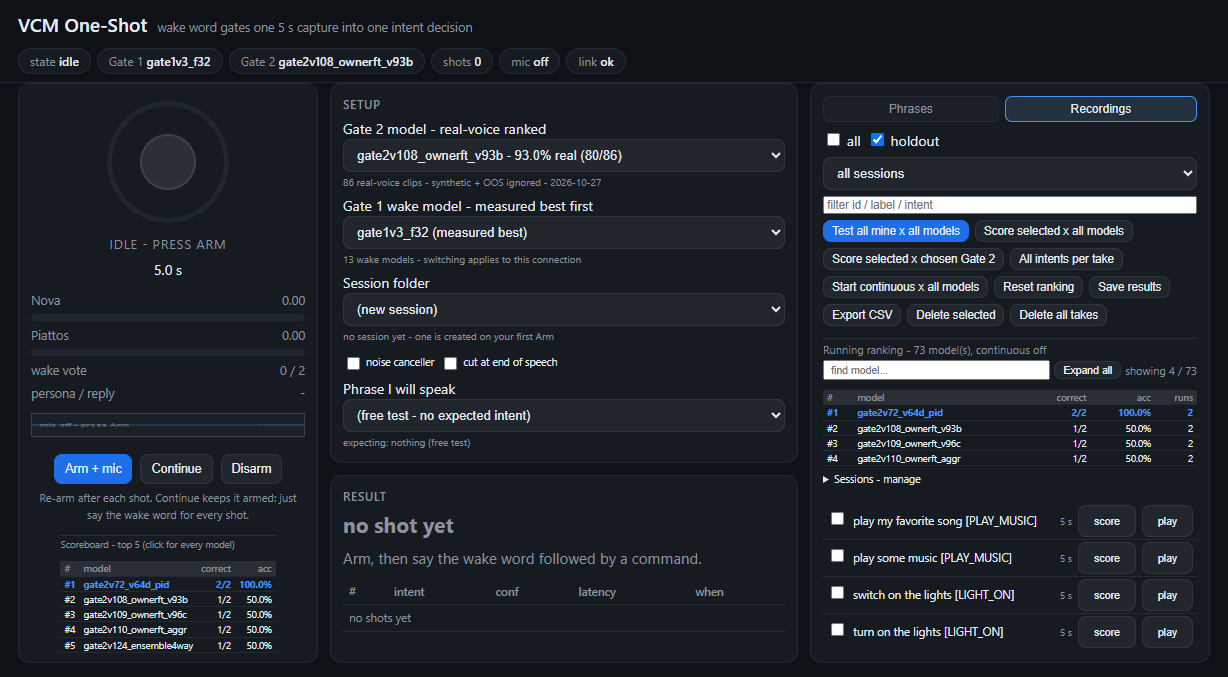
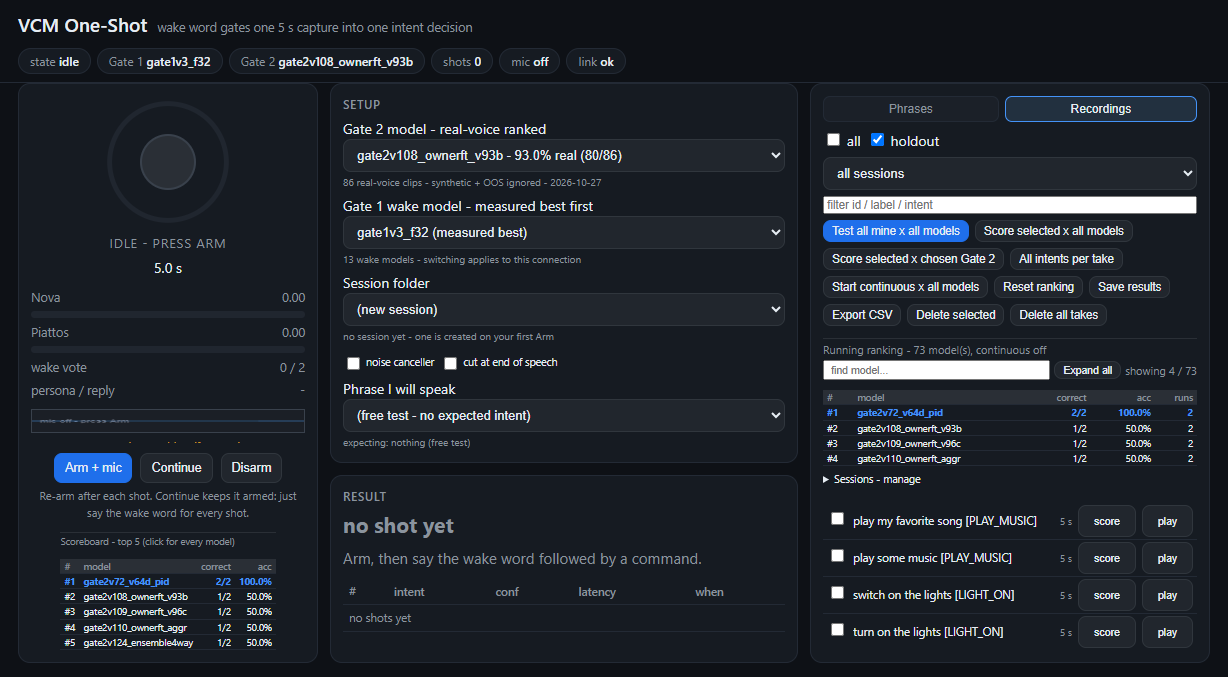
Fit: shave the last 2px of stage overflow at the 677px window

diff --git a/vcm_live_test_local/vcm_live_test_local/gate1_web/oneshot.html b/vcm_live_test_local/vcm_live_test_local/gate1_web/oneshot.html
@@ -36,7 +36,7 @@
   .col-mid { display:flex; flex-direction:column; gap:12px; min-height:0; }
   .setup { flex:0 0 auto; }
   .panel-result { flex:1 1 auto; }
-  .stage { display:flex; flex-direction:column; align-items:center; gap:6px; overflow-x:hidden; }
+  .stage { display:flex; flex-direction:column; align-items:center; gap:5px; overflow-x:hidden; }
   .wake { width:100%; }
   h2.ph { margin:0 0 4px; font-size:11.5px; text-transform:uppercase; letter-spacing:.07em;
           color:var(--mut); font-weight:600; }
@@ -63,7 +63,7 @@
     body.recording .dot { animation:none; }
     .ring .prog { transition:none !important; }
   }
-  .stage { display:flex; flex-direction:column; align-items:center; gap:6px; overflow-x:hidden; }
+  .stage { display:flex; flex-direction:column; align-items:center; gap:5px; overflow-x:hidden; }
   .ring { position:relative; width:190px; height:190px; }
   .ring svg { transform:rotate(-90deg); }
   .ring .track { stroke:#20262f; }
